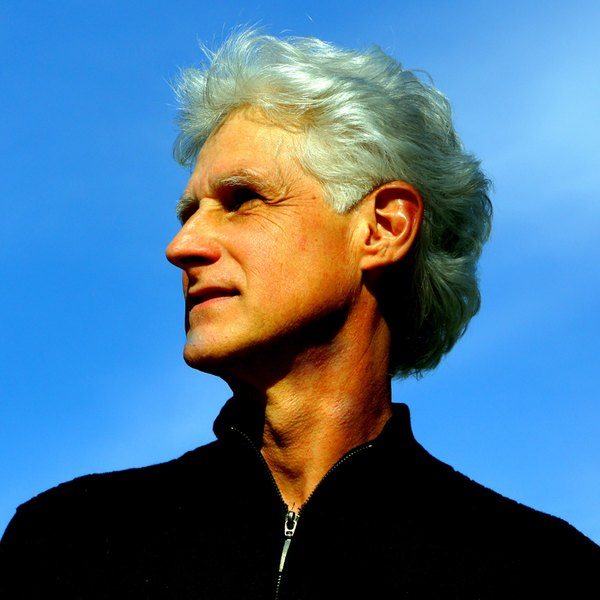
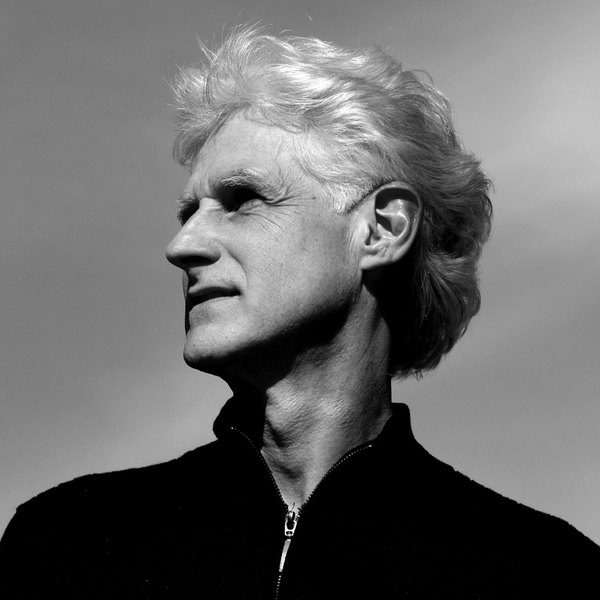
Add Upcoming page; Krouse portrait in black and white
Claude-Session: https://claude.ai/code/session_016gfbTyBAQx9PxuA1ZuUsPh

diff --git a/upcoming.html b/upcoming.html
@@ -1,0 +1,119 @@
+<!doctype html>
+<html lang="en">
+<head>
+<meta charset="utf-8">
+<meta name="viewport" content="width=device-width, initial-scale=1">
+<title>Upcoming — Jong Hoon Bae</title>
+<meta name="description" content="Forthcoming engagements of the conductor Jong Hoon Bae: Haydn at the University of Oxford, February 2027; the complete Beethoven and Mahler symphonies with the Seocho Philharmonia.">
+<meta property="og:title" content="Upcoming — Jong Hoon Bae">
+<meta property="og:type" content="profile">
+<link rel="preconnect" href="https://fonts.gstatic.com" crossorigin>
+<link rel="stylesheet" href="https://fonts.googleapis.com/css2?family=EB+Garamond:wght@400;500&family=Inter:wght@400;500&display=swap">
+<link rel="stylesheet" href="styles.css">
+</head>
+<body>
+
+<a class="skip" href="#main">Skip to content</a>
+
+<header class="masthead">
+  <div class="wrap masthead__inner">
+    <a class="wordmark" href="index.html">Jong Hoon Bae</a>
+    <nav class="nav" id="nav" aria-label="Main">
+      <a href="biography.html">Biography</a>
+      <a href="recordings.html">Recordings</a>
+      <a href="upcoming.html" aria-current="page">Upcoming</a>
+      <a href="contact.html">Contact</a>
+    </nav>
+    <button class="navtoggle" id="navtoggle" aria-expanded="false" aria-controls="nav">Menu</button>
+  </div>
+  <div class="wrap" id="navmobile"></div>
+</header>
+
+<main id="main">
+  <div class="wrap">
+
+    <div class="opening">
+      <h1 class="opening__name">Upcoming</h1>
+      <p class="opening__role">Jong Hoon Bae &middot; Conductor</p>
+      <div class="opening__line"></div>
+    </div>
+
+    <section class="split" style="margin-top:58px;border-top:none">
+      <p class="split__label">Oxford</p>
+      <div class="split__body">
+        <p class="measure">On 6 February 2027 Jong Hoon Bae and the Seocho Philharmonia appear at the invitation of the University of Oxford with a programme of Haydn symphonies at the Sohmen Concert Hall, the 500-seat hall of the Stephen A. Schwarzman Centre for the Humanities, opened in 2025.</p>
+      </div>
+    </section>
+
+    <section class="split">
+      <p class="split__label">Seoul &middot; 2027</p>
+      <div class="split__body">
+        <p class="measure">Following the completion of the Haydn cycle, the Seocho Philharmonia begins two further traversals in 2027: from March, a monthly cycle of the complete Beethoven symphonies, each paired with a Beethoven concerto; and the first season of a three-year cycle of the Mahler symphonies.</p>
+      </div>
+    </section>
+
+    <section class="split">
+      <p class="split__label">Haydn &middot; 2032</p>
+      <div class="split__body">
+        <p class="measure">A recorded cycle of the complete Haydn symphonies, prepared with historically informed performance scholars at Oxford, is in preparation for release ahead of the tercentenary of Haydn&rsquo;s birth in 2032.</p>
+      </div>
+    </section>
+
+    <section class="section" style="padding-top:58px">
+      <p class="eyebrow">Season 2027</p>
+      <ul class="plainlist">
+        <li><span class="yr">6 Feb</span><span>Haydn symphonies &mdash; Sohmen Concert Hall, University of Oxford</span></li>
+        <li><span class="yr">Feb</span><span>New Year Concert &mdash; Seocho Philharmonia, Seoul</span></li>
+        <li><span class="yr">Mar&ndash;</span><span>The complete Beethoven symphonies, monthly, with the concertos &mdash; Seocho Philharmonia, Seoul</span></li>
+        <li><span class="yr">2027&ndash;29</span><span>The complete Mahler symphonies &mdash; Seocho Philharmonia, Seoul</span></li>
+      </ul>
+      <p class="caption" style="margin-top:18px">Dates and programmes are announced by the Seocho Cultural Foundation and may change.</p>
+    </section>
+
+    <section class="section" style="padding-top:58px">
+      <div class="links">
+        <a class="link" href="recordings.html">Recordings</a>
+        <a class="link" href="contact.html">Engagement enquiries</a>
+      </div>
+    </section>
+
+  </div>
+</main>
+
+<footer class="foot">
+  <div class="wrap foot__inner">
+    <div>
+      <div class="foot__mark">Jong Hoon Bae</div>
+    </div>
+    <div>
+      <h4>Representation</h4>
+      <address>
+        Universal Violins Inc.<br>
+        Los Angeles, California<br>
+        <a href="mailto:owensparkley@gmail.com">owensparkley@gmail.com</a>
+      </address>
+    </div>
+    <div>
+      <h4>Elsewhere</h4>
+      <p><a href="https://lavsfoundation.org">LAVS Foundation</a></p>
+    </div>
+  </div>
+</footer>
+
+<script>
+(function () {
+  var btn = document.getElementById('navtoggle');
+  var nav = document.getElementById('nav');
+  var slot = document.getElementById('navmobile');
+  if (!btn || !nav || !slot) return;
+  btn.addEventListener('click', function () {
+    var open = btn.getAttribute('aria-expanded') === 'true';
+    btn.setAttribute('aria-expanded', String(!open));
+    if (open) { nav.classList.remove('nav--open'); nav.style.display = ''; }
+    else { slot.appendChild(nav); nav.classList.add('nav--open'); nav.style.display = 'flex'; }
+  });
+})();
+</script>
+
+</body>
+</html>

diff --git a/biography.html b/biography.html
@@ -21,6 +21,7 @@
     <nav class="nav" id="nav" aria-label="Main">
       <a href="biography.html" aria-current="page">Biography</a>
       <a href="recordings.html">Recordings</a>
+      <a href="upcoming.html">Upcoming</a>
       <a href="contact.html">Contact</a>
     </nav>
     <button class="navtoggle" id="navtoggle" aria-expanded="false" aria-controls="nav">Menu</button>

diff --git a/contact.html b/contact.html
@@ -21,6 +21,7 @@
     <nav class="nav" id="nav" aria-label="Main">
       <a href="biography.html">Biography</a>
       <a href="recordings.html">Recordings</a>
+      <a href="upcoming.html">Upcoming</a>
       <a href="contact.html" aria-current="page">Contact</a>
     </nav>
     <button class="navtoggle" id="navtoggle" aria-expanded="false" aria-controls="nav">Menu</button>

diff --git a/recordings.html b/recordings.html
@@ -21,6 +21,7 @@
     <nav class="nav" id="nav" aria-label="Main">
       <a href="biography.html">Biography</a>
       <a href="recordings.html" aria-current="page">Recordings</a>
+      <a href="upcoming.html">Upcoming</a>
       <a href="contact.html">Contact</a>
     </nav>
     <button class="navtoggle" id="navtoggle" aria-expanded="false" aria-controls="nav">Menu</button>

diff --git a/index.html b/index.html
@@ -22,6 +22,7 @@
     <nav class="nav" id="nav" aria-label="Main">
       <a href="biography.html">Biography</a>
       <a href="recordings.html">Recordings</a>
+      <a href="upcoming.html">Upcoming</a>
       <a href="contact.html">Contact</a>
     </nav>
     <button class="navtoggle" id="navtoggle" aria-expanded="false" aria-controls="nav">Menu</button>

diff --git a/README.md b/README.md
@@ -14,6 +14,7 @@ publishes automatically.
 | `index.html` | Home |
 | `biography.html` | Biography |
 | `recordings.html` | Recordings |
+| `upcoming.html` | Upcoming engagements |
 | `contact.html` | Contact |
 | `styles.css` | All styles |
 | `_headers` | Cloudflare cache and security headers |
@@ -50,6 +51,10 @@ Verified review quotations (Naxos 8.559907):
 Do not use: any "Guinness World Record holder" claim (submission reported as in
 progress, not awarded); the BBC Music Magazine review as a blanket endorsement
 (it calls the Symphonies of Strings "less convincingly performed").
+
+The 6 February 2027 Oxford concert (Sohmen Concert Hall, Schwarzman Centre) is
+stated by Jong Hoon Bae; the hall is verified, the date is not yet listed by
+Oxford — confirm against the Centre's programme when published.
 
 Still unverified — do not add: birthplace; guest-conducting engagements and
 years; photographer names for the concert photographs (credited to the Seocho
